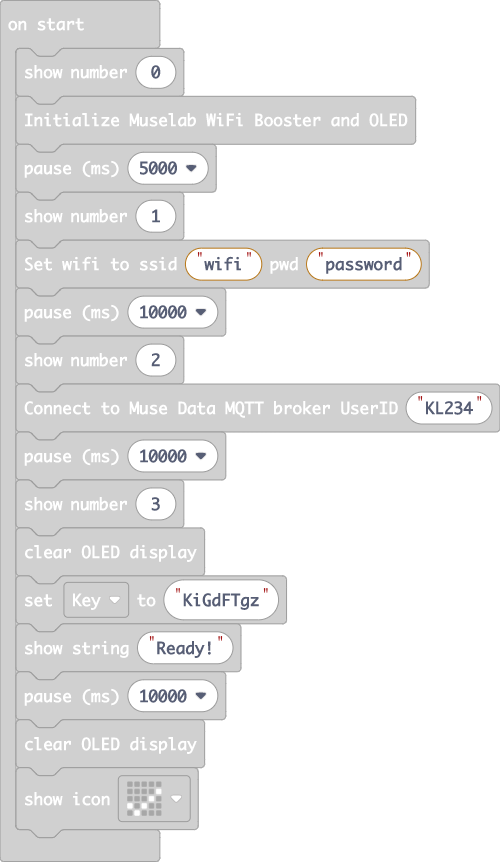
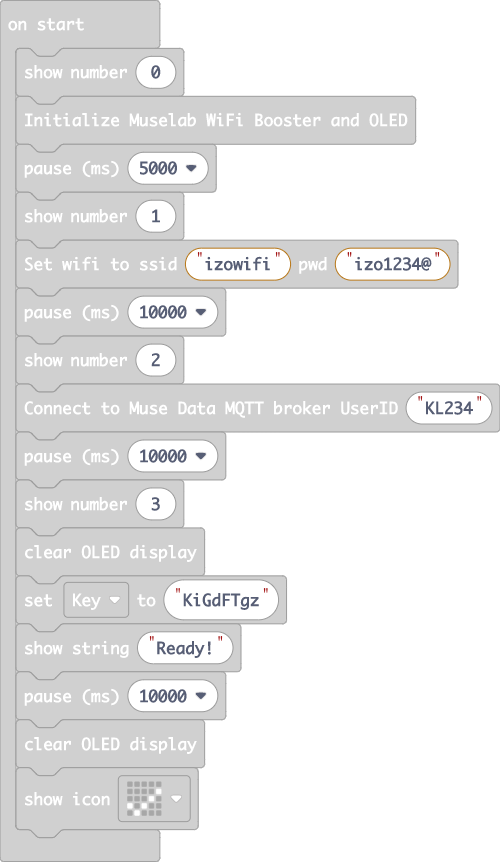
update wifi setting to izowifi

Changed region(s): [[0.39, 0.2715, 0.93, 0.3619]]

diff --git a/main.ts b/main.ts
@@ -32,7 +32,7 @@ basic.showNumber(0)
 MuseIoT.initializeWifi()
 basic.pause(5000)
 basic.showNumber(1)
-MuseIoT.setWifi("wifi", "password")
+MuseIoT.setWifi("izowifi", "izo1234@")
 basic.pause(10000)
 basic.showNumber(2)
 MuseIoT.ConnectMuseDataMQTTbroker("KL234")
